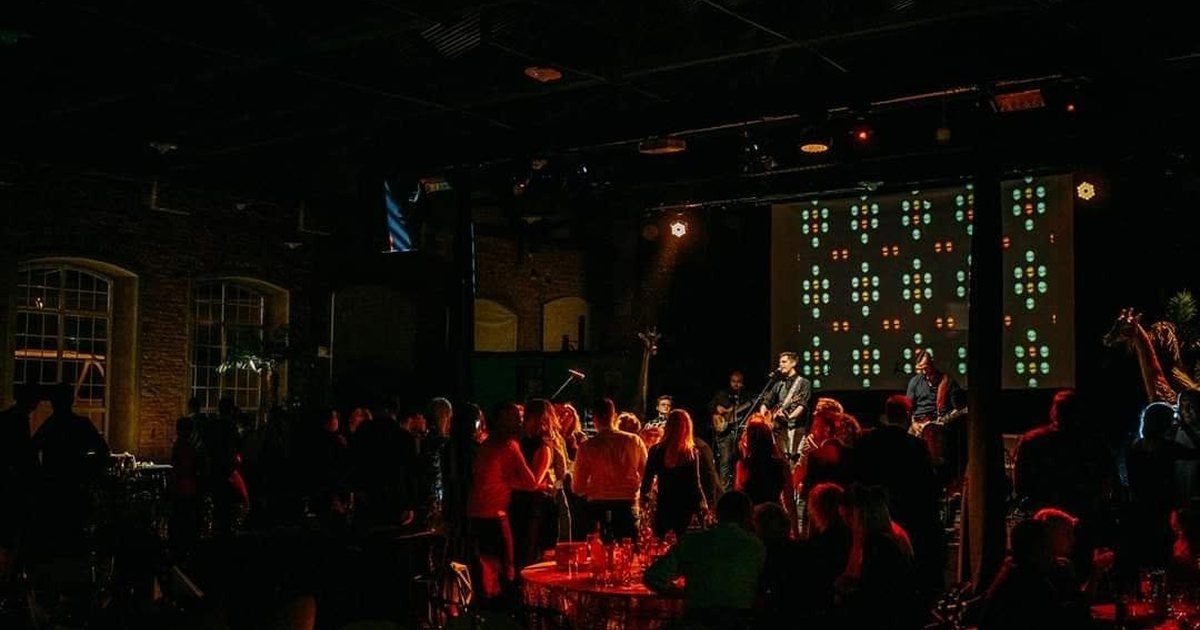
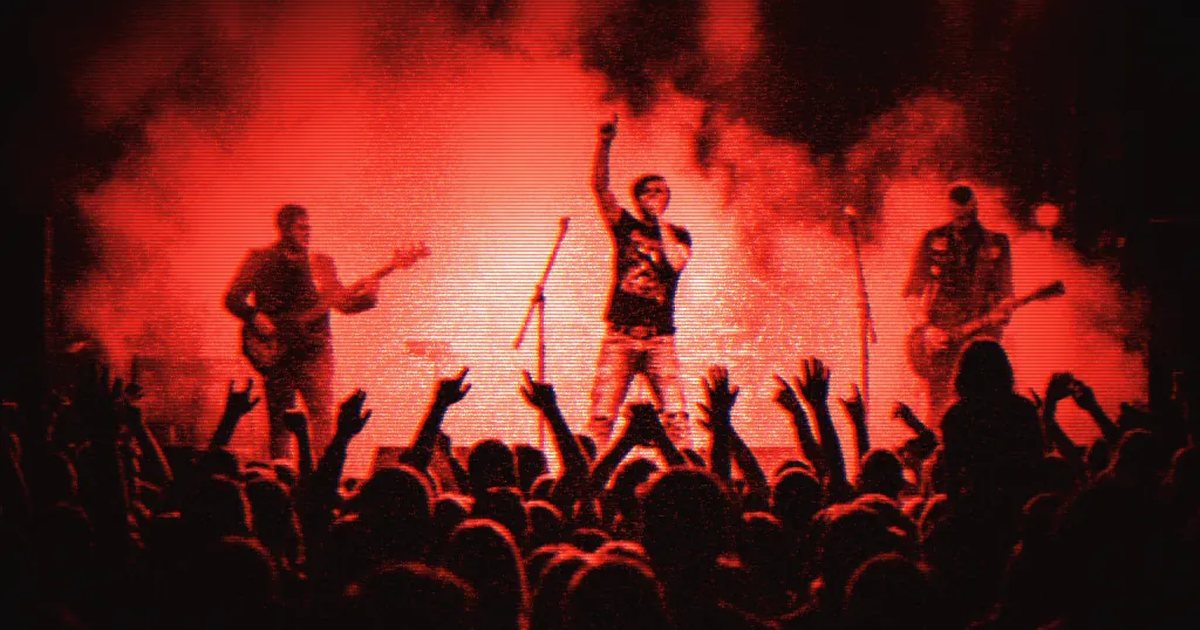
Alternative: use new hero photo as social share image
Claude-Session: https://claude.ai/code/session_01QMRZb7FGeT7eRLQJZQTyQV

diff --git a/alternative/index.html b/alternative/index.html
@@ -16,10 +16,10 @@
 <meta property="og:url" content="https://henrix.lv/alternative/">
 <meta property="og:title" content="Henrix Alternative — vairāk enerģijas, mazāk formalitāšu">
 <meta property="og:description" content="Ģitāras, 90. un 00. gadu alternatīvā roka hiti un īsta koncerta enerģija. Henrix Band alternatīvās mūzikas programma ballītēm, klubiem un festivāliem.">
-<meta property="og:image" content="https://henrix.lv/assets/img/og-alternative.jpg">
+<meta property="og:image" content="https://henrix.lv/assets/img/og-alternative.jpg?v=2">
 <meta property="og:image:width" content="1200">
 <meta property="og:image:height" content="630">
-<meta property="og:image:alt" content="Henrix koncerts: grupa uz skatuves un pilna zāle sarkanās gaismās">
+<meta property="og:image:alt" content="Henrix Alternative uz skatuves sarkanā gaismā un dūmos, publika ar paceltām rokām">
 <meta name="twitter:card" content="summary_large_image">
 <link rel="icon" href="/favicon.svg" type="image/svg+xml">
 <link rel="icon" href="/favicon-32.png" sizes="32x32" type="image/png">
@@ -42,7 +42,7 @@
       "isPartOf": { "@id": "https://henrix.lv/#website" },
       "about": { "@id": "https://henrix.lv/#band" },
       "mainEntity": { "@id": "https://henrix.lv/alternative/#offer" },
-      "primaryImageOfPage": "https://henrix.lv/assets/img/og-alternative.jpg"
+      "primaryImageOfPage": "https://henrix.lv/assets/img/og-alternative.jpg?v=2"
     },
     {
       "@type": "Service",
